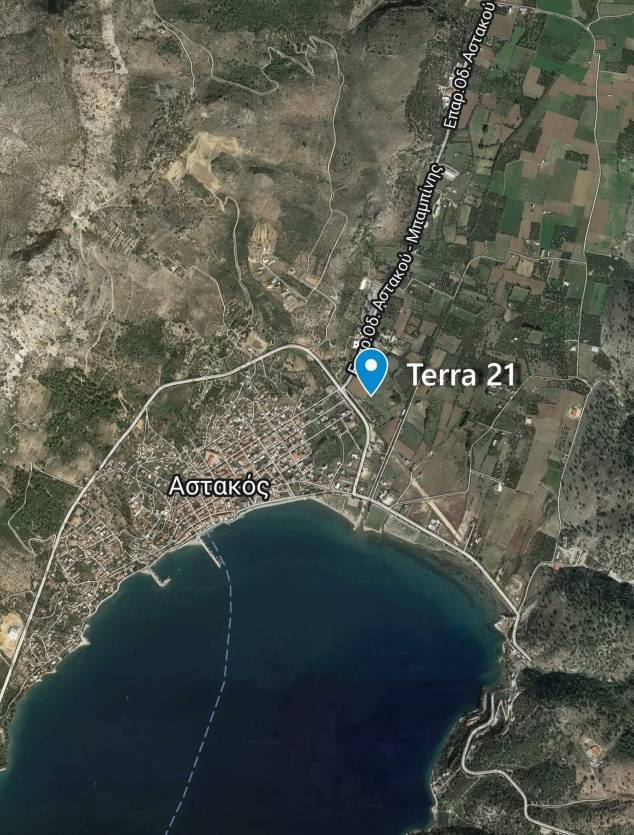
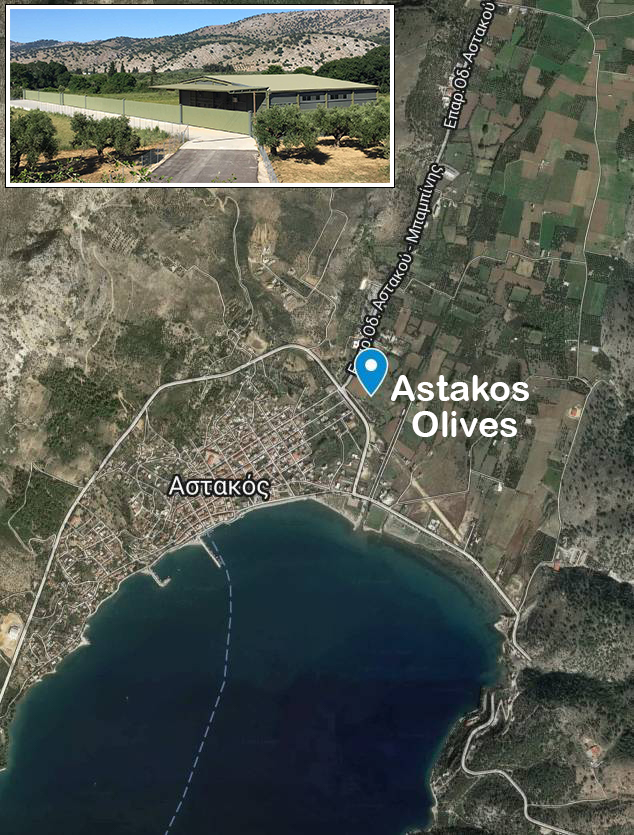
update contact map

Changed region(s): [[0.0, 0.0, 0.6293, 0.2491], [0.5994, 0.4048, 0.8391, 0.5293]]

diff --git a/contact.html b/contact.html
@@ -111,6 +111,11 @@
 				<div class="col-md-12">
 					<div class="wrapper">
 						<div class="row no-gutters mb-5">
+							<div class="col-md-5 align-items-stretch">
+								<div id="map"><img class="img-fluid" src="../assets/mapimage.jpg"
+										alt="Astakos Olives Location">
+								</div>
+							</div>
 							<div class="col-md-7 d-flex">
 								<div class="contact-wrap w-100 p-md-5 p-4">
 									<h3 class="mb-4">Contact Us</h3>
@@ -158,11 +163,6 @@
 											</div>
 									</form>
 								</div>
-							</div>
-						</div>
-						<div class="col-md-5 align-items-stretch">
-							<div id="map"><img class="img-fluid" src="../assets/mapimage.jpg"
-									alt="Astakos Olives Location">
 							</div>
 						</div>
 					</div>

diff --git a/contact-gr.html b/contact-gr.html
@@ -104,6 +104,10 @@
 				<div class="col-md-12">
 					<div class="wrapper">
 						<div class="row no-gutters mb-5">
+							<div class="col-md-5 d-flex align-items-stretch">
+								<div id="map"><img class="img-fluid" src="../assets/mapimage.jpg" alt="">
+								</div>
+							</div>
 							<div class="col-md-7 d-flex">
 								<div class="contact-wrap w-100 p-md-5 p-4">
 									<h3 class="mb-4">Επικοινωνία</h3>
@@ -151,10 +155,6 @@
 											</div>
 										</div>
 									</form>
-								</div>
-							</div>
-							<div class="col-md-5 d-flex align-items-stretch">
-								<div id="map"><img class="img-fluid" src="../assets/mapimage.jpg" alt="">
 								</div>
 							</div>
 						</div>

diff --git a/css/contact_style.css b/css/contact_style.css
@@ -9884,7 +9884,7 @@ h5 {
 .heading-section {
   font-size: 28px;
   color: #000;
-  padding-bottom: 2vmin;
+  padding-bottom: 1vmin;
 }
 .img {
   background-size: cover;
